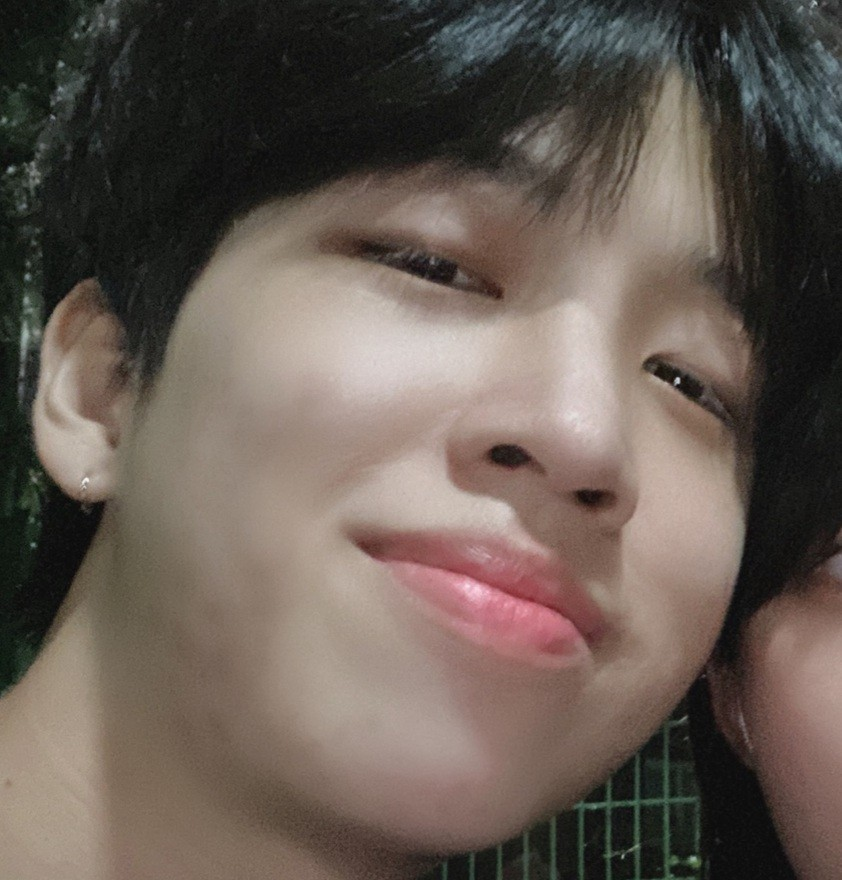
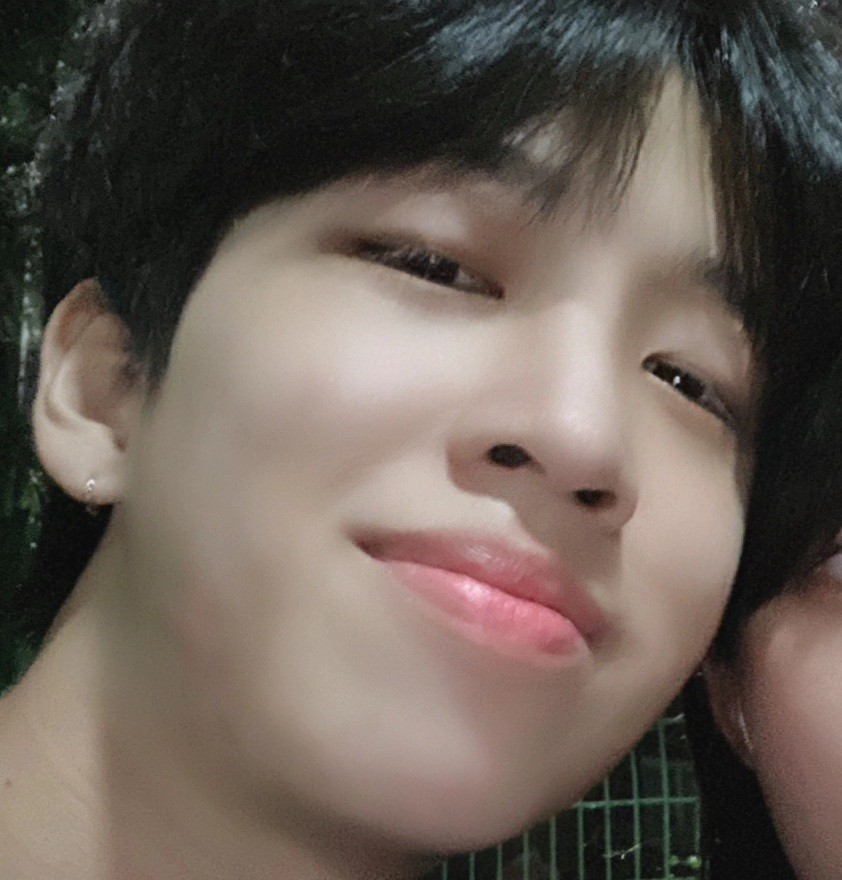
commit
commit

diff --git a/index.html b/index.html
@@ -20,12 +20,12 @@
         </div>
 
         <div class="intro">
-            <img src="img/5.jpg" alt="" class="Portfolio-img" />
+            <img src="img/3.jpg" alt="" class="Portfolio-img" />
             <ul class="text">
                 <li>LEE SANG MIN (이상민)</li>
                 <li class="gray">명지대학교 정보통신공학과 (대학생) 2000.03.02</li>
                 <br>
-                <li><p>안녕하세요! 중학생때 처음 컴퓨터 프로그래밍에 관심을 갖게 되어 현재는 웹 개발자가 되기 위해 공부하고 있습니다. <br>제가 좋아하는 컴퓨터를 계속해서 배워나가며 성장하고있습니다! :)</p></li>
+                <li><p>안녕하세요! 학창시절 부터 프로그래밍에 관심을 가져 현재는 웹 개발자가 되기 위해 공부하고 있습니다. <br>제가 좋아하는 컴퓨터를 계속해서 배워나가며 성장하고있습니다! :)</p></li>
             </ul>
         </div>
 
